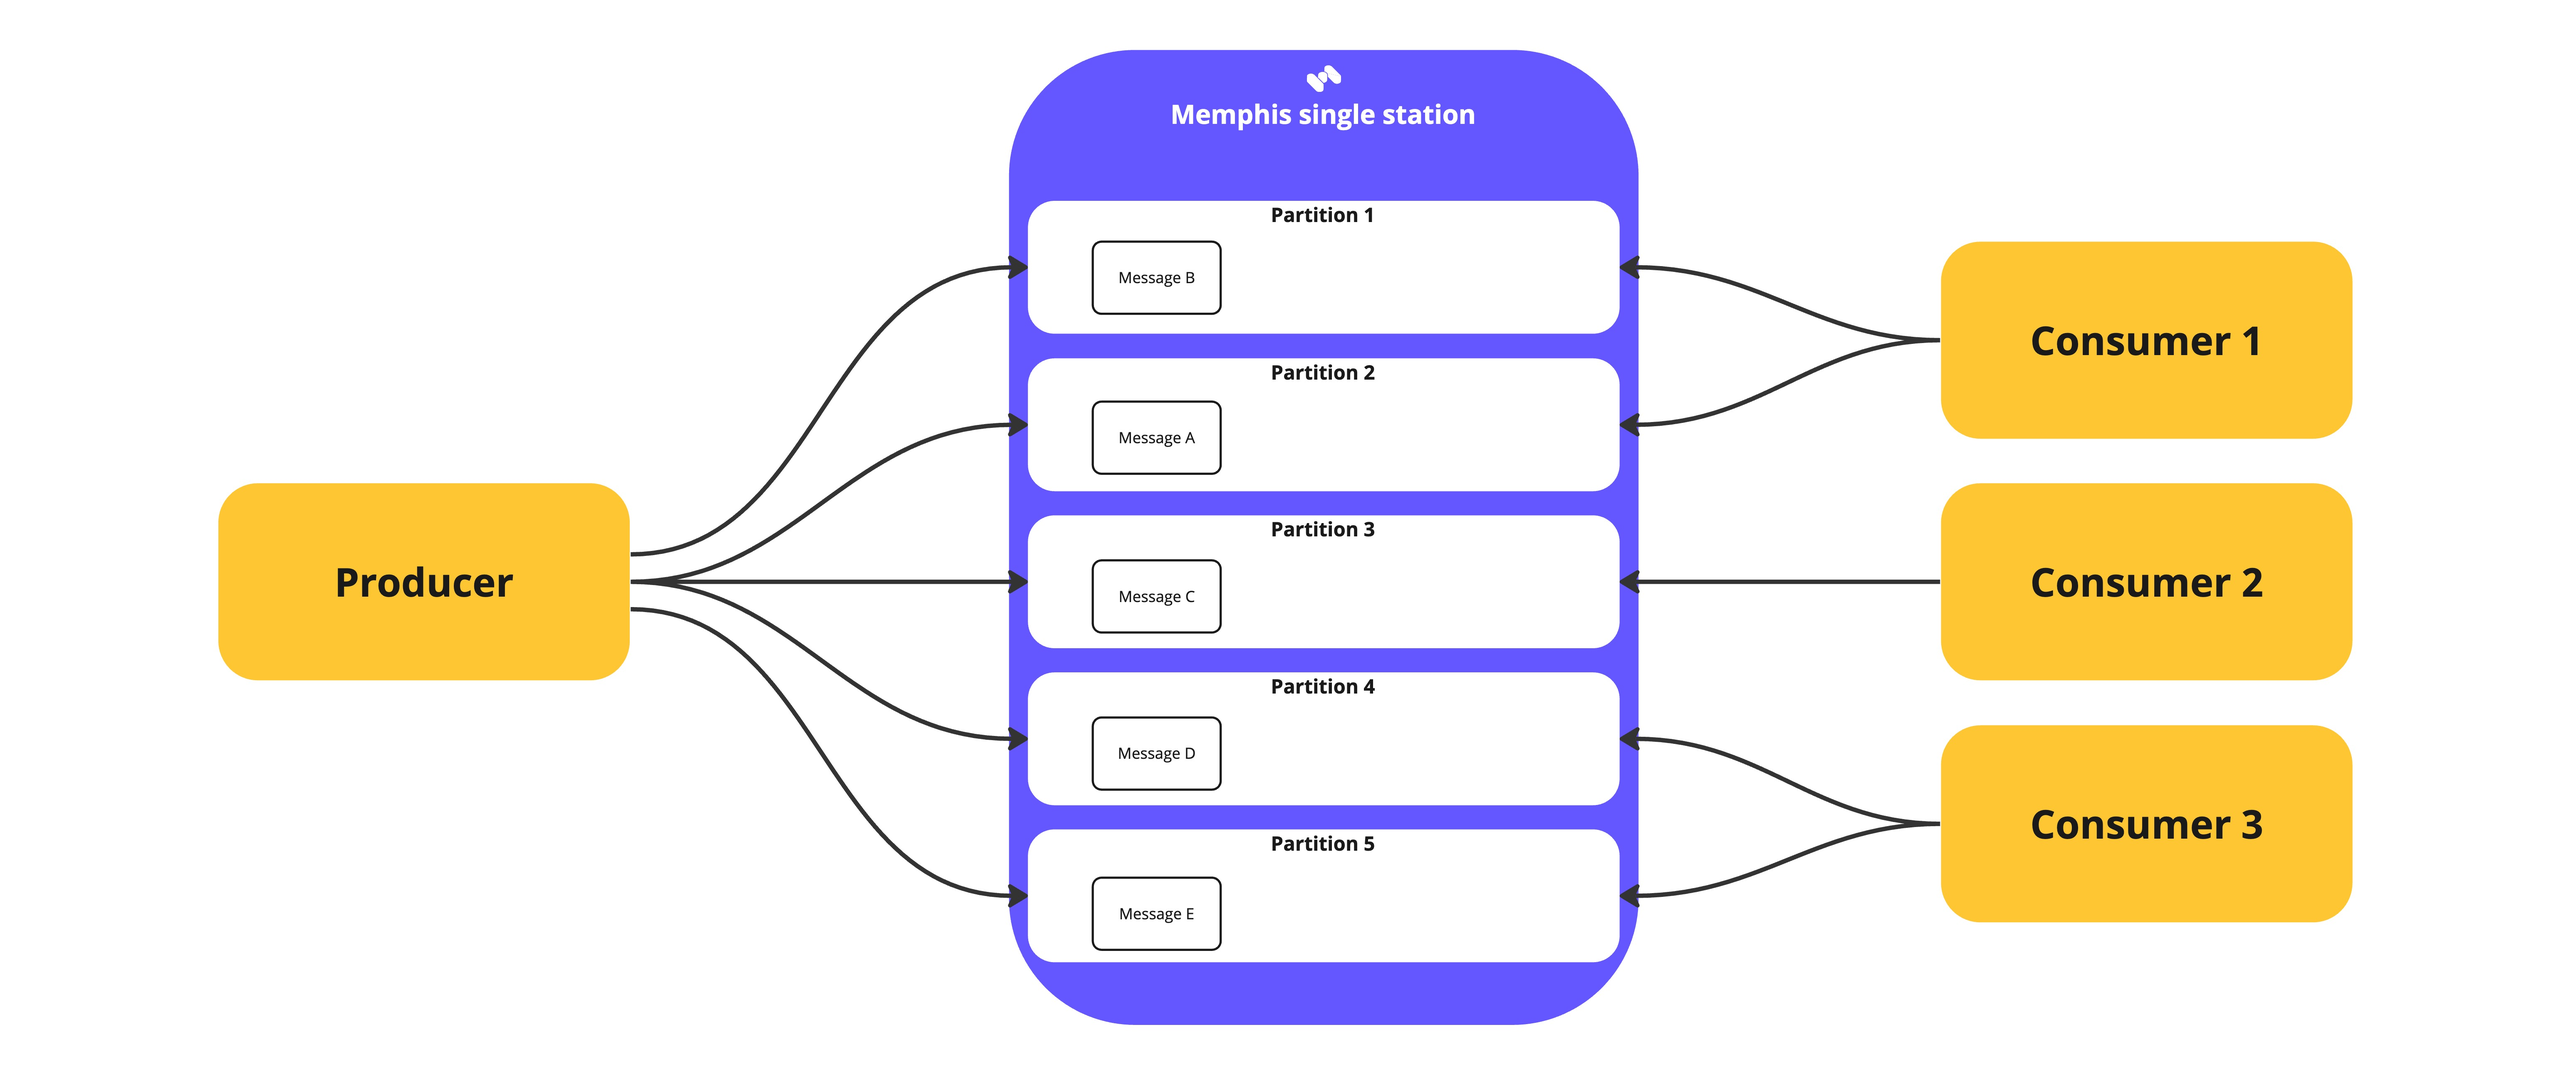
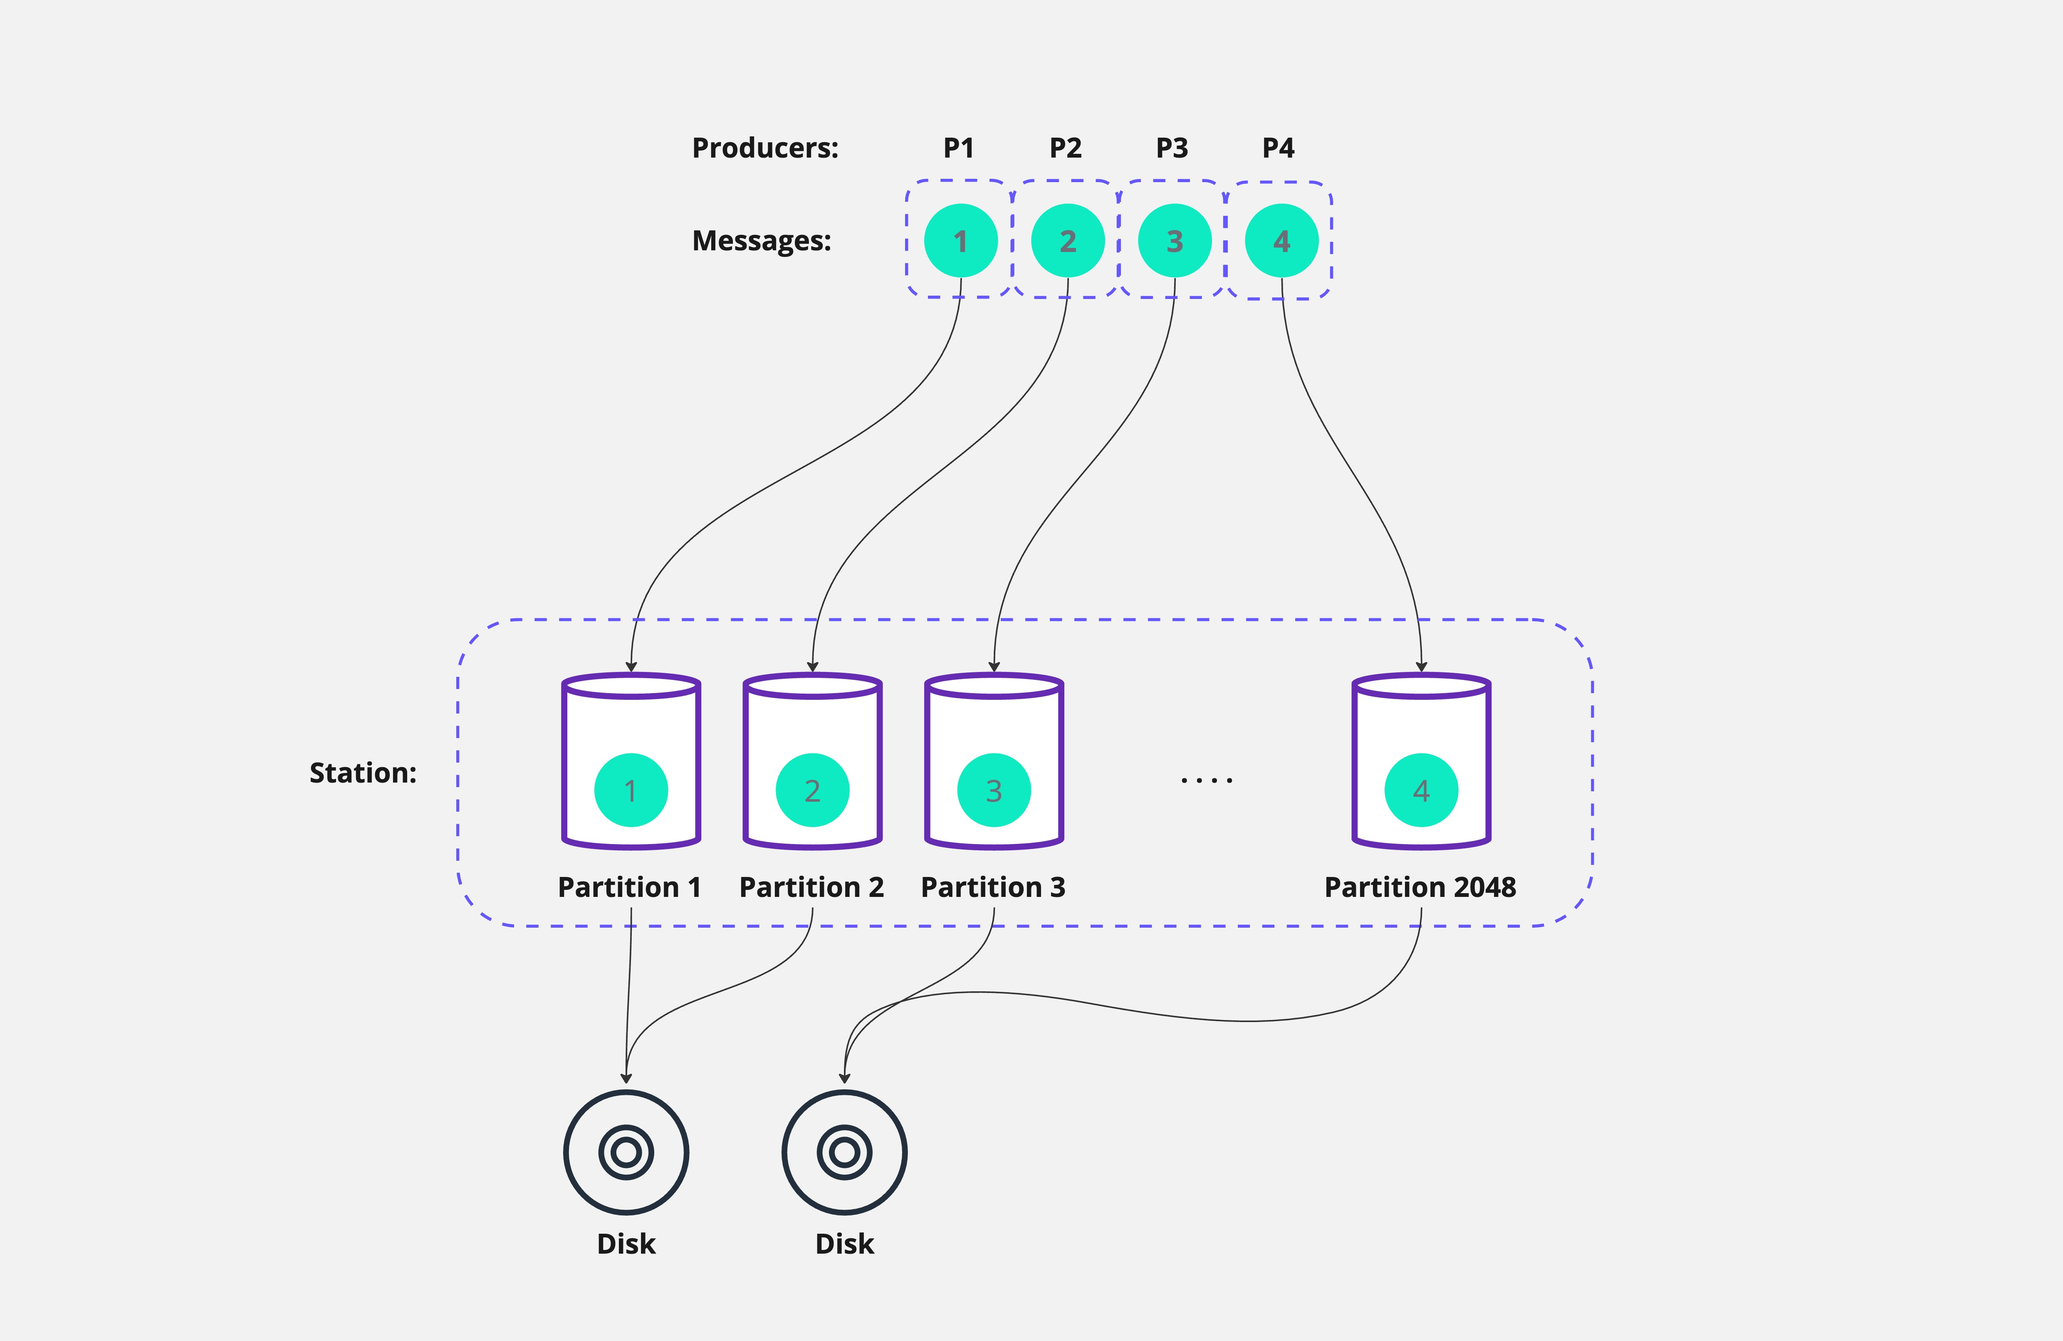
GITBOOK-1276: change request with no subject merged in GitBook

diff --git a/memphis/concepts/station.md b/memphis/concepts/station.md
@@ -60,20 +60,38 @@ To avoid filling out the station, we must choose a retention policy per station 
   Only available in the [Memphis Cloud](../../memphis-cloud/getting-started.md).\
   Messages will be removed from a station once acknowledged by all the connected consumer groups. Great for _exactly-once_ semantics.
 
-### Partitions
+### Partitions v1
 
-Memphis uses partitions. Released on v1.1.2.
+A partition is a division of a station or its constituent elements into distinct independent parts. Partitioning is normally done for manageability, performance, and/or availability reasons, and for load balancing.
+
+It is popular in distributed systems, where each partition may be spread over multiple nodes, with users of a station performing local transactions on the partition.
+
+Memphis uses partitions as well. Released on v1.1.2.
+
+<figure><img src="../../.gitbook/assets/partitions (1).jpeg" alt=""><figcaption></figcaption></figure>
 
 Partitions are the main method of concurrency for stations. \
 The used station will be broken into multiple partitions or parts among one or more memphis brokers.
 
-<figure><img src="../../.gitbook/assets/partitions.jpeg" alt=""><figcaption></figcaption></figure>
+<figure><img src="../../.gitbook/assets/partitions (2).jpeg" alt=""><figcaption></figcaption></figure>
 
-**Limitations**
+#### How to use partitions
+
+Within each client library manual, you can find where and how to define partitions.
+
+Partitions are defined during station creation, and currently, there is no change needed from the client's side to work with the created partitions.
+
+#### **Limitations**
 
 1. The number of partitions cannot be changed after station creation. It will be available in the future.
 2. Currently, producers cannot select which partition to write.
 3. Currently, consumers cannot select which partition to read, and it will take place in a round-robin manner.
+4. Ordering is guaranteed on the partition level. In case a station is configured with more than one partition, ordering will be transformed into partition level and not the station.
+
+#### Coming up in v2
+
+1. Partition-level produce and consumption.
+2. Partition's key assignment. To enable dynamic consumer listening.
 
 ### Ordering and delivery
 
